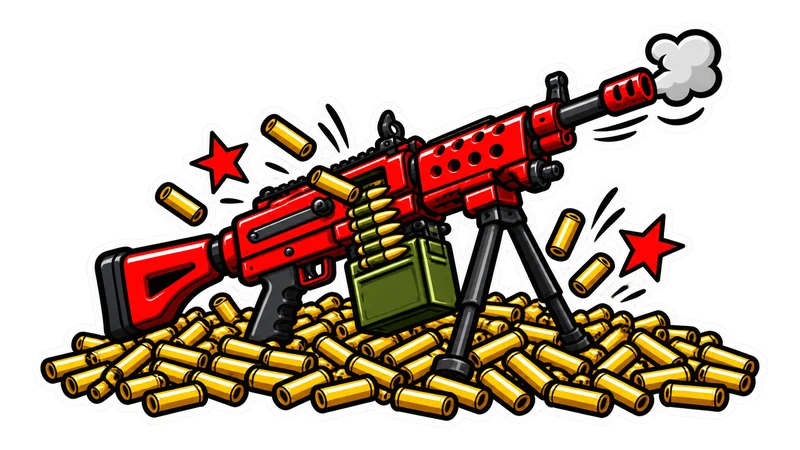
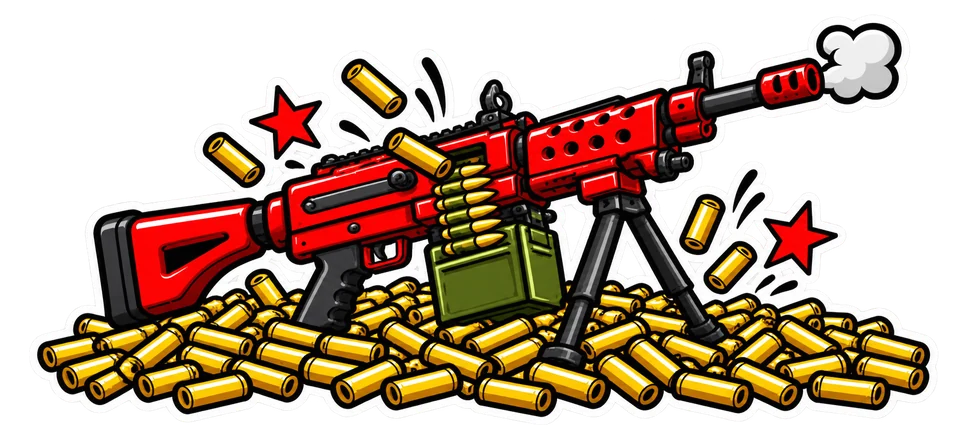
CS memes: Zeus stands at the row's right edge in the last column and Negev just left of it (the shaped cells are placed from the right, the standard cards fill in from the left by price), and both pictures are redrawn to their cells' own proportions (2.2:1 and 0.41:1), so the art fills the card inst

diff --git a/app/pages/index.vue b/app/pages/index.vue
@@ -49,7 +49,9 @@ const allCases = computed(() => (data.value?.sections ?? []).flatMap((s) => s.ca
 // Sorted or filtered, every card is standard: the cells keep the chosen order instead of the shaped ones jumping first
 const shapeOf = (c: CaseSummary, s: CaseSection) =>
   s.theme || filters.isActive.value ? undefined : c.card === 'wide' && c.art?.wide ? ('wide' as const) : c.card === 'tall' && c.art?.tall && s.cases.length > 5 ? ('tall' as const) : undefined
-const SHAPE_CELL = { wide: 'lg:order-first lg:col-span-2', tall: 'lg:order-first lg:row-span-2' } as const
+// Both stand at the row's right edge: the tall cell in the last column, the wide one just left of it; the standard
+// cards fill in from the left
+const SHAPE_CELL = { wide: 'lg:order-first lg:[grid-column:span_2/-2]', tall: 'lg:order-first lg:[grid-column:-2/-1] lg:row-span-2' } as const
 // Phones: every row is the two-column grid, no sideways swiping. A short row (one desktop row or less) with an odd
 // count drops its last card there, so no case stands alone on a line; the big catalog below still has every case
 const isShortOdd = (s: CaseSection) => s.cases.length <= 5 && s.cases.length % 2 === 1

diff --git a/docs/ART_PROMPTS.md b/docs/ART_PROMPTS.md
@@ -465,7 +465,7 @@ Palette: alarm red, toxic chat-green, flashbang white, black ink.
 - **rush-b:** `Scene: the chicken mascot sprinting flat out towards the viewer in a reckless all-in rush, seen three-quarter from the front, gripping a P90 submachine gun with both wings, legs spinning into a cartoon blur of motion lines, crest and feathers blown back, beak wide open in a joyful yell, a small puff of sand kicked up behind its feet.`
 - **noscope:** `Scene: an AWP sniper rifle caught mid-spin in a full 360-degree turn, drawn complete and kept compact, surrounded by one big round swirl of motion lines that circles it; its scope has popped off and flies away with a little comic pop, a small red X mark on the empty scope rail; a bright comic muzzle flash kept well inside the frame.` (прицел модель всё равно оставила на месте)
 
-Фигурные карточки ряда (`public/img/cases/wide/negev.webp` 800×450, `tall/zeus.webp` 360×640): квадратная картинка — первый образец, в промпте «Redraw image 1 as a WIDE landscape picture (16:9)» / «as a TALL portrait picture (9:16)», размер 1536×864 / 864×1536; ряд из 8 кейсов с одной широкой и одной высокой закрывает две строки по 5.
+Фигурные карточки ряда (`public/img/cases/wide/negev.webp` 968×440, `tall/zeus.webp` 468×1152 — ровно пропорции области картинки в карточке на десктопе, 2,2:1 и 0,41:1, иначе по краям пусто): первая широкая/высокая версия — образец, в промпте «re-fit it so the whole sticker silhouette has the SAME proportions as this frame (about 2.2 wide to 1 high)» / «(about 1 wide to 2.4 high)», размер 1536×704 / 640×1536, по 2 варианта и берётся тот, у которого пропорции ближе (слова «very wide / very tall» дают перебор); ряд из 8 кейсов с одной широкой и одной высокой закрывает две строки по 5.
 
 ---
 
